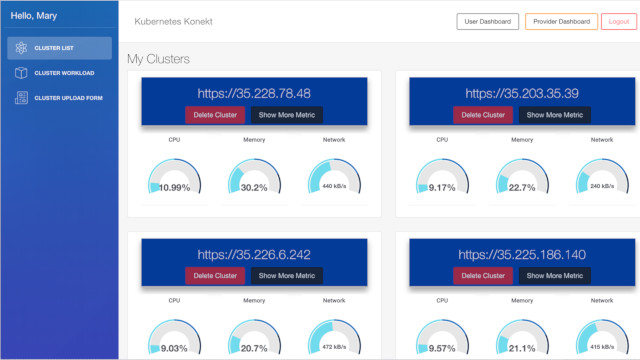
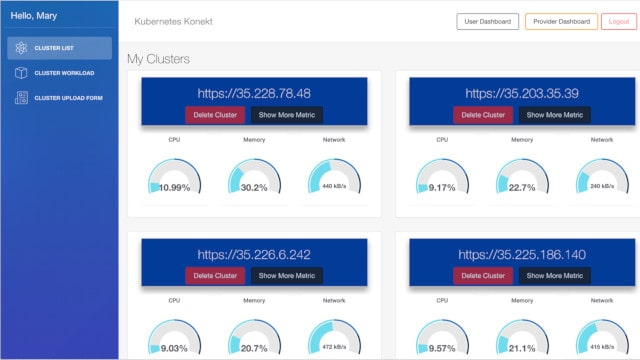
Reduced image size

diff --git a/src/components/Banner/banner.js b/src/components/Banner/banner.js
@@ -3,7 +3,7 @@ import { Row, Col, Button } from "antd"
 import ButtonGroup from "antd/lib/button/button-group"
 import style from "./banner.module.css"
 import resume from "../../assets/resume.pdf"
-import bannerCover from "../../assets/bannerImage.jpg"
+import bannerCover from "../../assets/banner.jpg"
 
 const banner = () => {
   return (

diff --git a/src/pages/index.js b/src/pages/index.js
@@ -9,7 +9,7 @@ import {
 } from "../components/componentExports"
 import { Helmet } from "react-helmet"
 
-import myImage from "../assets/grad-thumb.jpg"
+import myImage from "../assets/about.jpg"
 
 import "antd/dist/antd.css"
 
